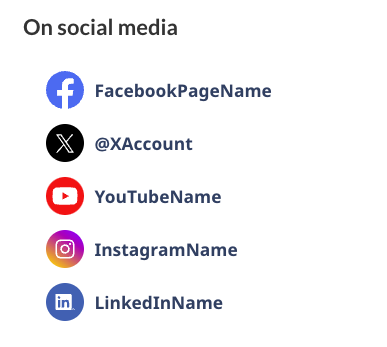
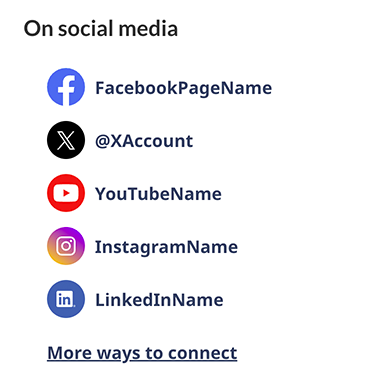
img

diff --git a/common-design-patterns/social-media-channels.md b/common-design-patterns/social-media-channels.md
@@ -178,6 +178,25 @@ title: Social media channels
                     <li>LinkedIn icon followed by the placeholder text LinkedInName</li>
                 </ul>
             </details>
+            <p>Below the icons is a link with the label: More ways to connect</p>
+        </figure>
+    </div>
+        <div class="pattern-demo mrgn-tp-md mrgn-bttm-md">
+        <figure class="mrgn-tp-md mrgn-bttm-lg">
+            <figcaption><b>Social media channels (horizontal view with labels and more ways to connect link) - small screen</b></figcaption>
+            <img src="../images/social-media-horizontal-en-sm.png" class="img-responsive" alt="Social media channels (horizontal view with labels and more ways to connect link) for small screens. Text version below:" />
+            <details>
+                <summary class="wb-toggle" data-toggle='{"print":"on"}'>Image description: social media channels (horizontal view with labels and more ways to connect link) - small screen</summary>
+                <p>Social media channel links appear in a section with the heading “On social media”. Below the heading is a vertical list with associated icons and labels:</p>
+                <ul>
+                    <li>Facebook icon followed by the placeholder text FacebookPageName</li>
+                    <li>X icon followed by the placeholder text @XAccount</li>
+                    <li>Youtube icon followed by the placeholder text YouTubeName</li>
+                    <li>Instagram icon followed by the placeholder text InstagramName</li>
+                    <li>LinkedIn icon followed by the placeholder text LinkedInName</li>
+                </ul>
+                <p>Below the icons is a link with the label: More ways to connect</p>
+            </details>
         </figure>
     </div>
     <div class="pattern-demo mrgn-tp-md mrgn-bttm-md">
